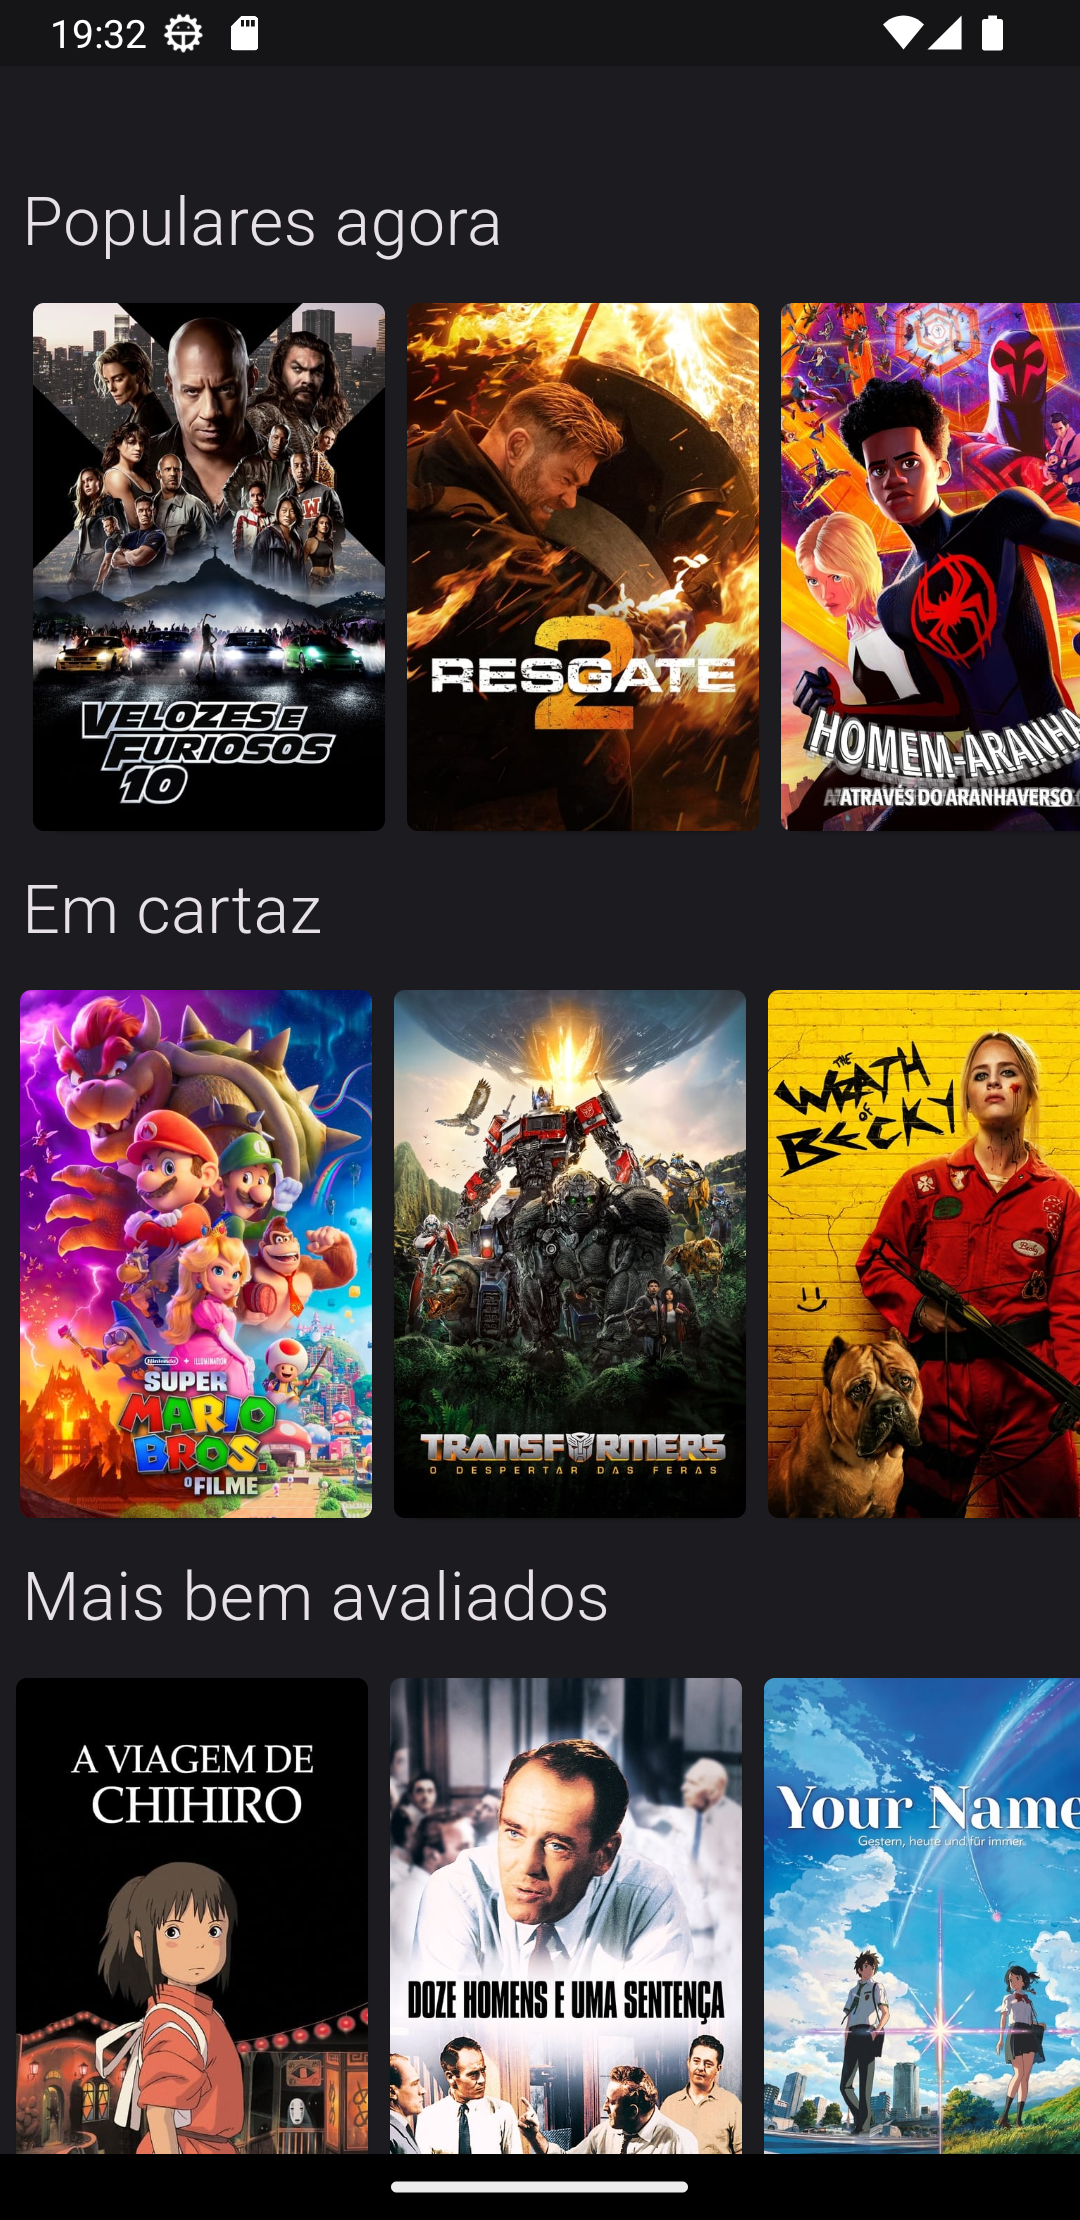
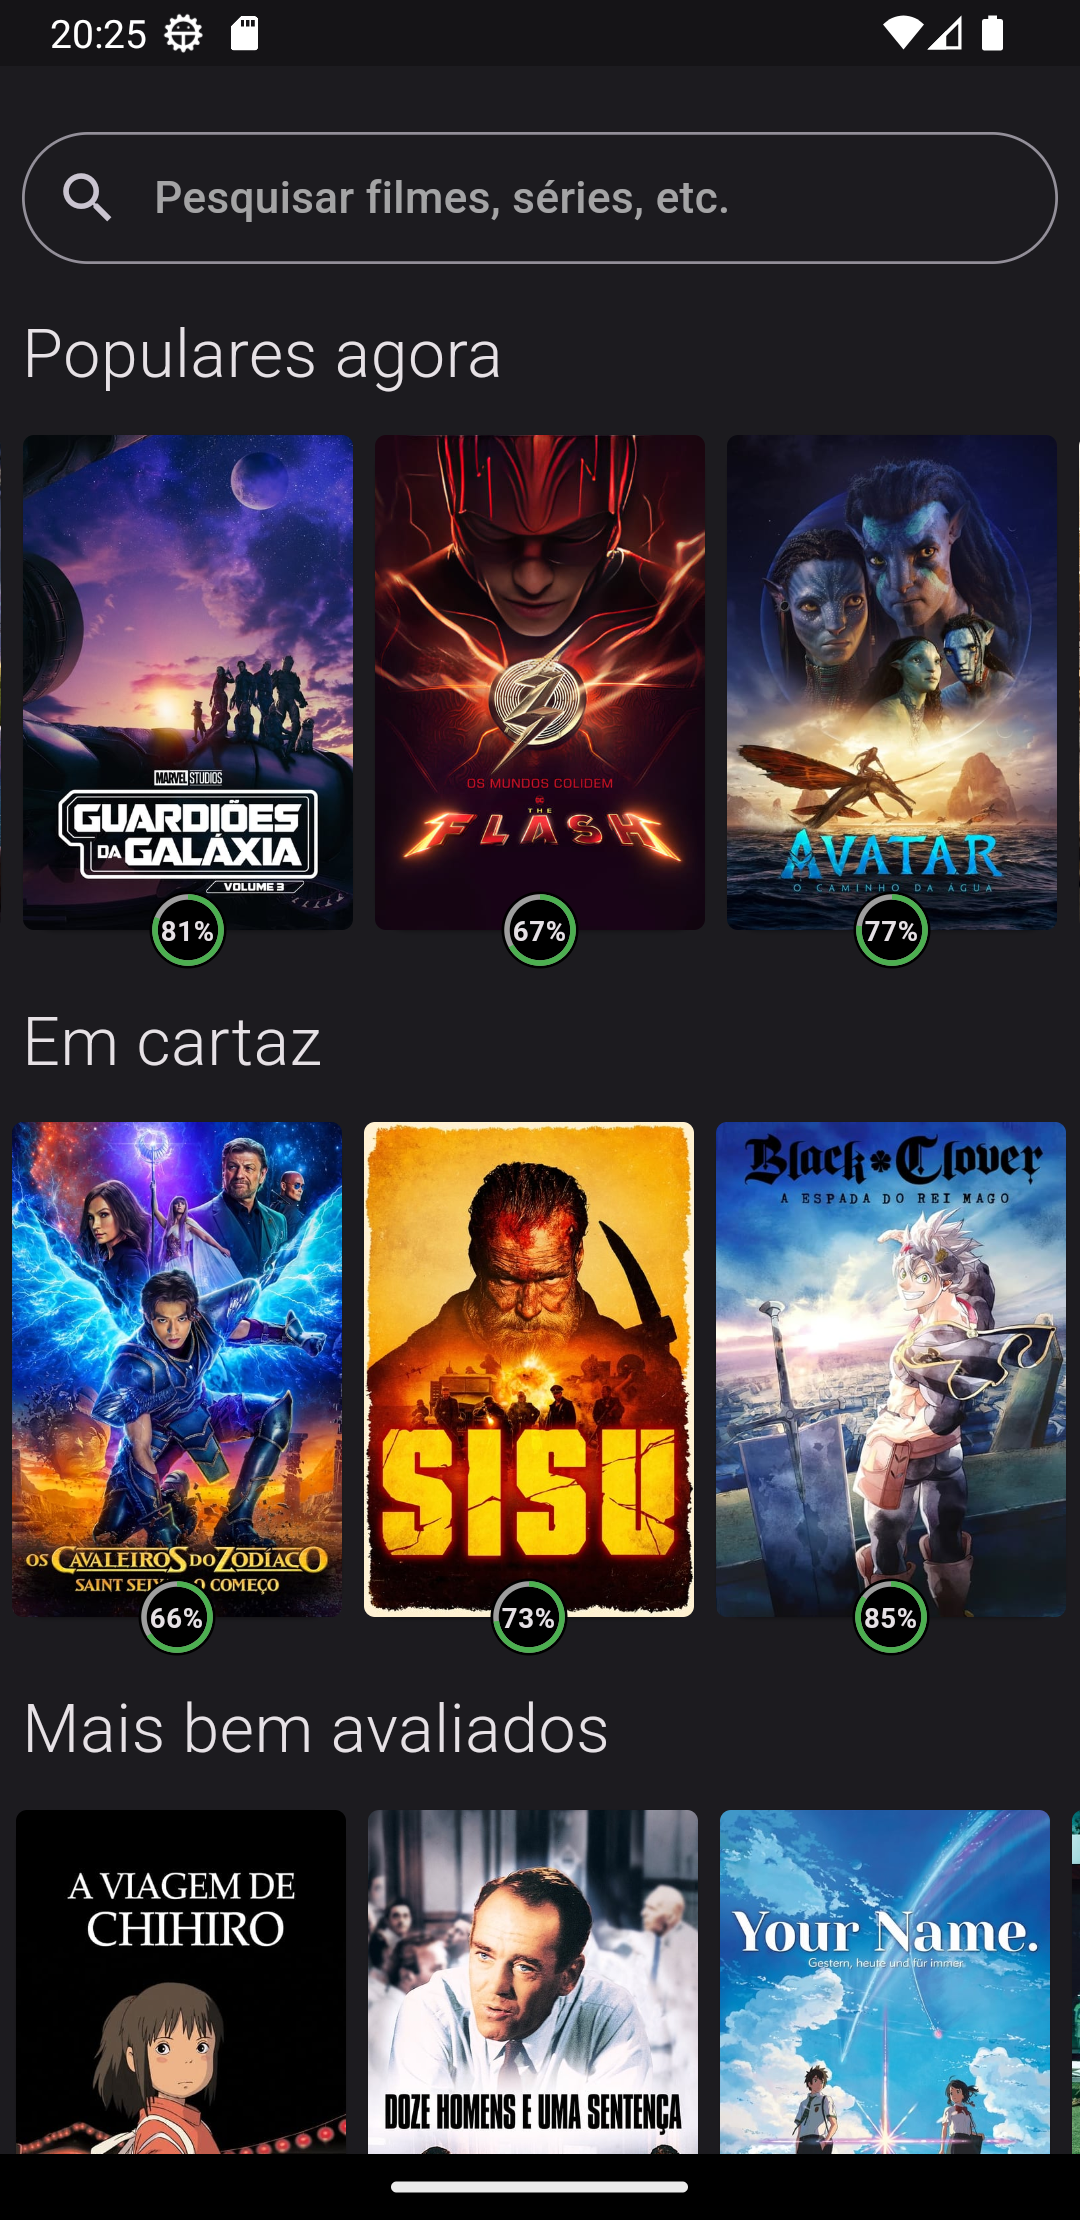
Refatoração de lista de filmes

diff --git a/lib/app/features/home/presentation/pages/home_page.dart b/lib/app/features/home/presentation/pages/home_page.dart
@@ -1,8 +1,7 @@
 import 'package:flutter/material.dart';
 import 'package:flutter_mobx/flutter_mobx.dart';
 import 'package:flutter_modular/flutter_modular.dart';
-import 'package:o_que_assistir/app/features/home/domain/entities/movie_entity.dart';
-import 'package:o_que_assistir/app/features/home/presentation/widgets/movie_card_widget.dart';
+import 'package:o_que_assistir/app/features/home/presentation/widgets/movies_widget.dart';
 import '../stores/home_store.dart';
 
 class HomePage extends StatefulWidget {
@@ -51,20 +50,35 @@ class _HomePageState extends State<HomePage> {
           return ListView(
             physics: const BouncingScrollPhysics(),
             children: [
-              const SizedBox(height: 32),
-              _moviesCategory(
+              const SizedBox(height: 16),
+              const Padding(
+                padding: EdgeInsets.all(8.0),
+                child: TextField(
+                  decoration: InputDecoration(
+                    hintText: "Pesquisar filmes, séries, etc.",
+                    contentPadding: EdgeInsets.zero,
+                    prefixIcon: Icon(Icons.search),
+                    border: OutlineInputBorder(
+                      borderRadius: BorderRadius.all(
+                        Radius.circular(32),
+                      ),
+                    ),
+                  ),
+                ),
+              ),
+              MoviesWidget(
                 movies: store.popularMovies,
                 title: "Populares agora",
               ),
-              _moviesCategory(
+              MoviesWidget(
                 movies: store.nowPlayingMovies,
                 title: "Em cartaz",
               ),
-              _moviesCategory(
+              MoviesWidget(
                 movies: store.topRatedMovies,
                 title: "Mais bem avaliados",
               ),
-              _moviesCategory(
+              MoviesWidget(
                 movies: store.upcomingMovies,
                 title: "Próximos lançamentos",
               ),
@@ -73,51 +87,6 @@ class _HomePageState extends State<HomePage> {
           );
         },
       ),
-    );
-  }
-
-  Widget _moviesCategory({
-    required List<MovieEntity> movies,
-    required String title,
-  }) {
-    return Column(
-      crossAxisAlignment: CrossAxisAlignment.start,
-      children: [
-        Padding(
-          padding: const EdgeInsets.all(8.0),
-          child: Text(
-            title,
-            style: const TextStyle(
-              fontSize: 24,
-              fontWeight: FontWeight.w300,
-            ),
-          ),
-        ),
-        SizedBox(
-          height: 200,
-          child: ListView.separated(
-            scrollDirection: Axis.horizontal,
-            itemCount: movies.length,
-            separatorBuilder: (context, index) => const Divider(),
-            itemBuilder: (context, index) {
-              final movie = movies[index];
-              final child = MovieCardWidget(movie: movie);
-              if (index == 0) {
-                return Padding(
-                  padding: const EdgeInsets.only(left: 8.0),
-                  child: child,
-                );
-              } else if (index == movies.length) {
-                return Padding(
-                  padding: const EdgeInsets.only(right: 8.0),
-                  child: child,
-                );
-              }
-              return child;
-            },
-          ),
-        ),
-      ],
     );
   }
 }

diff --git a/lib/app/features/home/presentation/widgets/movie_card_widget.dart b/lib/app/features/home/presentation/widgets/movie_card_widget.dart
@@ -10,18 +10,60 @@ class MovieCardWidget extends StatelessWidget {
 
   @override
   Widget build(BuildContext context) {
-    return CupertinoButton(
-      padding: EdgeInsets.zero,
-      onPressed: () => Modular.to.pushNamed("/movie-details/${movie.id}"),
-      child: Card(
-        child: ClipRRect(
-          borderRadius: BorderRadius.circular(4),
-          child: Image.network(
-            movie.posterPath.imageUrl,
-            fit: BoxFit.cover,
+    return Stack(
+      children: [
+        CupertinoButton(
+          padding: EdgeInsets.zero,
+          onPressed: () => Modular.to.pushNamed("/movie-details/${movie.id}"),
+          child: Card(
+            child: ClipRRect(
+              borderRadius: BorderRadius.circular(4),
+              child: Image.network(
+                movie.posterPath.imageUrl,
+                fit: BoxFit.cover,
+                height: 180,
+              ),
+            ),
           ),
         ),
-      ),
+        Positioned(
+          bottom: 2,
+          right: 0,
+          left: 0,
+          child: Align(
+            alignment: Alignment.bottomCenter,
+            child: SizedBox(
+              width: 28,
+              height: 28,
+              child: Container(
+                padding: const EdgeInsets.all(2),
+                decoration: BoxDecoration(
+                  color: Colors.black,
+                  borderRadius: BorderRadius.circular(32),
+                ),
+                child: Stack(
+                  alignment: Alignment.center,
+                  children: [
+                    CircularProgressIndicator(
+                      value: movie.voteAverage / 10,
+                      strokeWidth: 2,
+                      backgroundColor: Colors.grey,
+                      valueColor: const AlwaysStoppedAnimation(Colors.green),
+                    ),
+                    Text(
+                      '${(movie.voteAverage * 10).floor()}%',
+                      style: const TextStyle(
+                        fontSize: 10,
+                        fontWeight: FontWeight.bold,
+                      ),
+                    ),
+                  ],
+                ),
+              ),
+            ),
+          ),
+        )
+      ],
     );
   }
 }

diff --git a/lib/app/features/home/presentation/widgets/movies_widget.dart b/lib/app/features/home/presentation/widgets/movies_widget.dart
@@ -1,0 +1,52 @@
+import 'package:flutter/material.dart';
+import 'package:o_que_assistir/app/features/home/domain/entities/movie_entity.dart';
+import 'package:o_que_assistir/app/features/home/presentation/widgets/movie_card_widget.dart';
+
+class MoviesWidget extends StatelessWidget {
+  final List<MovieEntity> movies;
+  final String title;
+  const MoviesWidget({super.key, required this.movies, required this.title});
+
+  @override
+  Widget build(BuildContext context) {
+    return Column(
+      crossAxisAlignment: CrossAxisAlignment.start,
+      children: [
+        Padding(
+          padding: const EdgeInsets.all(8.0),
+          child: Text(
+            title,
+            style: const TextStyle(
+              fontSize: 24,
+              fontWeight: FontWeight.w300,
+            ),
+          ),
+        ),
+        SizedBox(
+          height: 200,
+          child: ListView.separated(
+            scrollDirection: Axis.horizontal,
+            itemCount: movies.length,
+            separatorBuilder: (context, index) => const Divider(),
+            itemBuilder: (context, index) {
+              final movie = movies[index];
+              final child = MovieCardWidget(movie: movie);
+              if (index == 0) {
+                return Padding(
+                  padding: const EdgeInsets.only(left: 8.0),
+                  child: child,
+                );
+              } else if (index == movies.length) {
+                return Padding(
+                  padding: const EdgeInsets.only(right: 8.0),
+                  child: child,
+                );
+              }
+              return child;
+            },
+          ),
+        ),
+      ],
+    );
+  }
+}

diff --git a/README.md b/README.md
@@ -32,6 +32,7 @@ O gerenciamento de estado foi feito utilizando Mobx.
 
 ## Testes de unidade: Mocktail
 
+- Testes de Stores
 - Testes de models
 - Testes de Usecases
 - Testes de repositories
